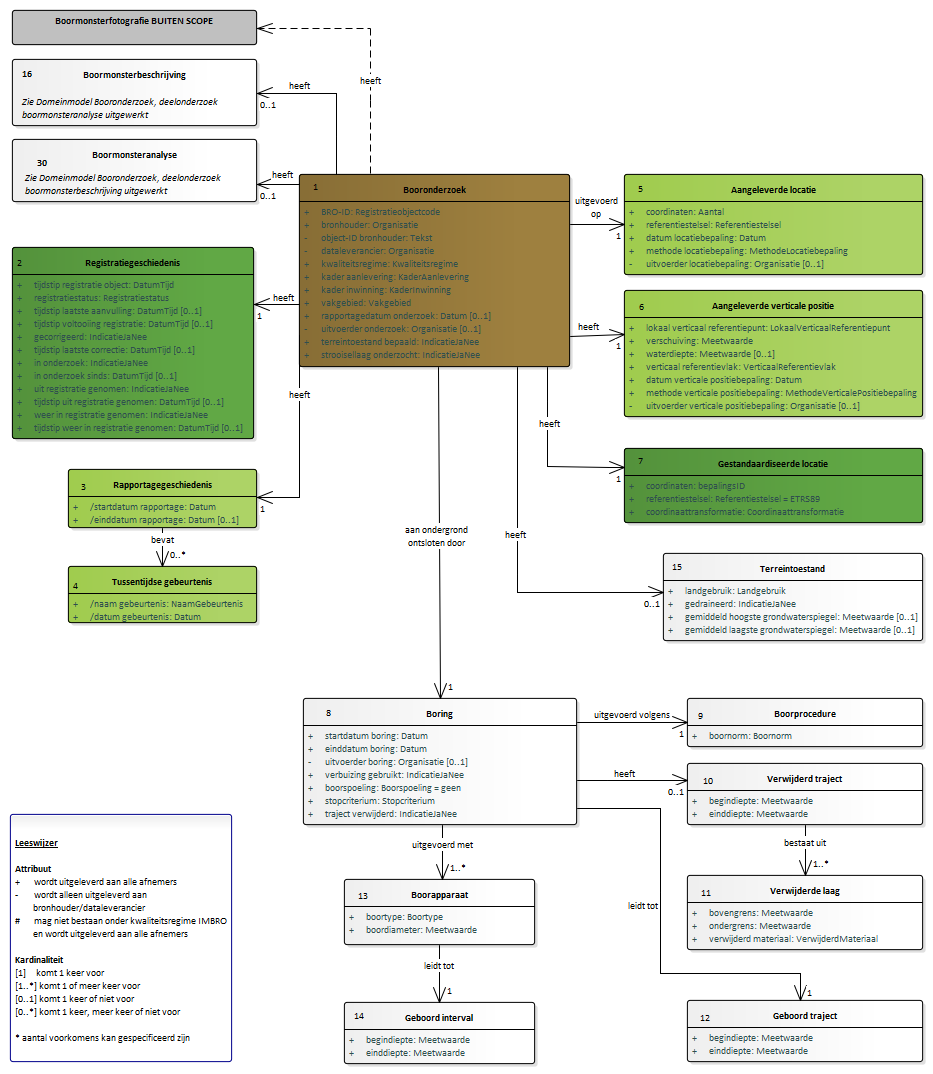
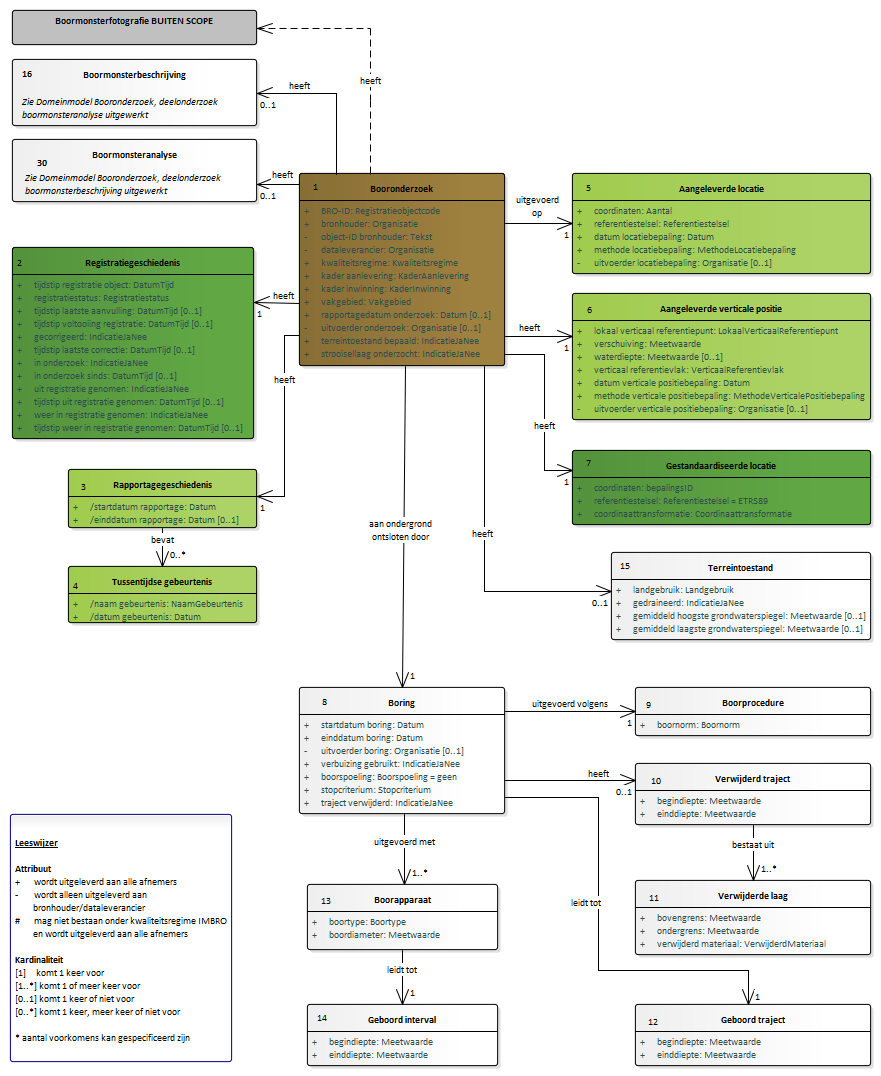
Conceptualmodel-BHR-Pconceptueel-MIM-1.9127november2019-1-20200214-20200304-152854

diff --git a/data/BHR-P-cat.msword.html b/data/BHR-P-cat.msword.html
@@ -13,7 +13,7 @@
    <body>
       <p>Conceptual model/BHR-P conceptueel - MIM/20200214</p>
       <p>Imvertor: 1.59.2</p>
-      <p>Model release: Conceptualmodel-BHR-Pconceptueel-MIM-1.9127november2019-1-20200214-20200304-150618</p>
+      <p>Model release: Conceptualmodel-BHR-Pconceptueel-MIM-1.9127november2019-1-20200214-20200304-152854</p>
       <hr>
       <section>
          <h1>Artikel 1 Definitie van registratieobject, entiteiten en attributen</h1>
@@ -70,20 +70,20 @@
             <h2>Het domeinmodel</h2>
             <section id="">
                <div class="imageinfo overview"><img src="Images/EAID_1C3500F1_E5BB_47e3_9CE1_BB98873D797A.png" usemap="#imagemap-EAID_1C3500F1_E5BB_47e3_9CE1_BB98873D797A" alt="Diagram "><map name="imagemap-EAID_1C3500F1_E5BB_47e3_9CE1_BB98873D797A">
-                     <area shape="rect" alt="Bodemclassificatie" coords="616,10,906,244" href="#graph_EAID_CFE14268_F08B_4a20_BB74_3FEA8BBA0438">
-                     <area shape="rect" alt="Zuurgraad bodemlaag" coords="550,559,712,621" href="#graph_EAID_20864613_7F9B_4610_9180_7A919D60C45B">
-                     <area shape="rect" alt="Verdeling fijne fractie" coords="770,729,907,809" href="#graph_EAID_60B04447_7B86_410e_B20F_D3CD115886D1">
-                     <area shape="rect" alt="Onvolledige fractiespecificatie" coords="557,825,760,915" href="#graph_EAID_2882FB1B_C7C2_467c_AEBB_238330EEBFC0">
-                     <area shape="rect" alt="Fractieverdeling" coords="557,725,738,813" href="#graph_EAID_EF53B14C_3668_4ef9_934A_1FD39F3E0662">
-                     <area shape="rect" alt="Grondsoort" coords="227,724,521,915" href="#graph_EAID_6335A71B_82D0_48a7_B08B_E14E5233FFFC">
-                     <area shape="rect" alt="Laagcomponent" coords="227,559,521,660" href="#graph_EAID_972B648E_F4A1_4a70_92B9_3383A5DB7706">
-                     <area shape="rect" alt="Vast gesteentelaag" coords="617,410,907,498" href="#graph_EAID_53169F7B_05E8_438f_A558_2A98EA6E3BDE">
-                     <area shape="rect" alt="Bodemlaag" coords="226,410,522,498" href="#graph_EAID_BAEFD725_0B6B_4084_AB08_BC42F75343BC">
-                     <area shape="rect" alt="Bijzonderheid onderin" coords="677,298,846,358" href="#graph_EAID_4B2108B5_2549_4222_B1C3_253785E10046">
-                     <area shape="rect" alt="Strooisellaag" coords="10,410,198,510" href="#graph_EAID_53792607_43A9_402c_BCFF_E9A10589D199">
-                     <area shape="rect" alt="Boorprofiel" coords="226,190,523,304" href="#graph_EAID_E066634E_A30B_4f31_9447_9ADBF0419CB4">
-                     <area shape="rect" alt="Boormonsterbeschrijving" coords="227,10,521,125" href="#graph_EAID_697C344A_A1CE_4e19_A1E8_D608CAB8F0B2">
-                     <area shape="rect" alt="Zuurgraad strooisellaag" coords="13,559,196,623" href="#graph_EAID_50D04CCB_A0D6_4ec1_85EB_B23EC6D99A02"></map><p><b>Domeinmodel BRO Bodemkundige boormonsterbeschrijving</b></p>
+                     <area shape="rect" alt="Bodemclassificatie" coords="560,10,850,244" href="#graph_EAID_CFE14268_F08B_4a20_BB74_3FEA8BBA0438">
+                     <area shape="rect" alt="Zuurgraad bodemlaag" coords="520,558,682,620" href="#graph_EAID_20864613_7F9B_4610_9180_7A919D60C45B">
+                     <area shape="rect" alt="Verdeling fijne fractie" coords="613,980,750,1060" href="#graph_EAID_60B04447_7B86_410e_B20F_D3CD115886D1">
+                     <area shape="rect" alt="Onvolledige fractiespecificatie" coords="547,724,750,814" href="#graph_EAID_2882FB1B_C7C2_467c_AEBB_238330EEBFC0">
+                     <area shape="rect" alt="Fractieverdeling" coords="569,848,750,936" href="#graph_EAID_EF53B14C_3668_4ef9_934A_1FD39F3E0662">
+                     <area shape="rect" alt="Grondsoort" coords="204,724,498,915" href="#graph_EAID_6335A71B_82D0_48a7_B08B_E14E5233FFFC">
+                     <area shape="rect" alt="Laagcomponent" coords="204,559,498,660" href="#graph_EAID_972B648E_F4A1_4a70_92B9_3383A5DB7706">
+                     <area shape="rect" alt="Vast gesteentelaag" coords="560,410,850,498" href="#graph_EAID_53169F7B_05E8_438f_A558_2A98EA6E3BDE">
+                     <area shape="rect" alt="Bodemlaag" coords="203,410,499,498" href="#graph_EAID_BAEFD725_0B6B_4084_AB08_BC42F75343BC">
+                     <area shape="rect" alt="Bijzonderheid onderin" coords="629,298,798,358" href="#graph_EAID_4B2108B5_2549_4222_B1C3_253785E10046">
+                     <area shape="rect" alt="Strooisellaag" coords="10,410,186,510" href="#graph_EAID_53792607_43A9_402c_BCFF_E9A10589D199">
+                     <area shape="rect" alt="Boorprofiel" coords="203,190,500,304" href="#graph_EAID_E066634E_A30B_4f31_9447_9ADBF0419CB4">
+                     <area shape="rect" alt="Boormonsterbeschrijving" coords="204,10,498,125" href="#graph_EAID_697C344A_A1CE_4e19_A1E8_D608CAB8F0B2">
+                     <area shape="rect" alt="Zuurgraad strooisellaag" coords="13,558,186,623" href="#graph_EAID_50D04CCB_A0D6_4ec1_85EB_B23EC6D99A02"></map><p><b>Domeinmodel BRO Bodemkundige boormonsterbeschrijving</b></p>
                </div>
                <div class="imageinfo overview"><img src="Images/EAID_6383BFB7_B0C0_44d9_9C7F_929703659479.png" usemap="#imagemap-EAID_6383BFB7_B0C0_44d9_9C7F_929703659479" alt="Diagram "><map name="imagemap-EAID_6383BFB7_B0C0_44d9_9C7F_929703659479">
                      <area shape="rect" alt="Bepaling waterretentie stapsgewijs" coords="12,733,253,964" href="#graph_EAID_41CDAA8E_37BA_4dbe_843B_C18C720DC286">
@@ -96,23 +96,23 @@
                      <area shape="rect" alt="Onderzocht interval" coords="255,180,481,308" href="#graph_EAID_E03DABD7_D5A7_43b1_8E45_22FE722A3256"></map><p><b>Bodemkundige boormonsteranalyse deel 1</b></p>
                </div>
                <div class="imageinfo overview"><img src="Images/EAID_D6588CC3_0108_4b72_8419_F2C7022F9A9E.png" usemap="#imagemap-EAID_D6588CC3_0108_4b72_8419_F2C7022F9A9E" alt="Diagram "><map name="imagemap-EAID_D6588CC3_0108_4b72_8419_F2C7022F9A9E">
-                     <area shape="rect" alt="Gestandaardiseerde locatie" coords="624,448,923,523" href="#graph_EAID_4D17BE34_0DFD_4a20_9A39_F437E781D80F">
-                     <area shape="rect" alt="Aangeleverde verticale positie" coords="624,290,923,417" href="#graph_EAID_5B6EEAEE_FAAF_4ab9_9D33_709559A9E297">
-                     <area shape="rect" alt="Aangeleverde locatie" coords="624,174,923,275" href="#graph_EAID_C81072B6_E99D_435f_9E4C_B1D5FED530D4">
-                     <area shape="rect" alt="Geboord traject" coords="687,1000,923,1062" href="#graph_EAID_BCE4FB50_EC8B_4ebc_BA2F_AED708915459">
-                     <area shape="rect" alt="Verwijderde laag" coords="687,875,923,950" href="#graph_EAID_4F931859_A209_48c8_95B4_EF48947342D4">
-                     <area shape="rect" alt="Verwijderd traject" coords="687,763,923,825" href="#graph_EAID_9CAAE4E0_1030_4145_8BA6_E7E82C1A81D3">
-                     <area shape="rect" alt="Boorprocedure" coords="687,698,923,747" href="#graph_EAID_BC5BEC9E_1CD9_400e_931D_D3328E315CAA">
-                     <area shape="rect" alt="Terreintoestand" coords="663,553,923,641" href="#graph_EAID_AF1FFED2_C283_48d3_BB6D_22F3F876045D">
-                     <area shape="rect" alt="Geboord interval" coords="344,1002,535,1064" href="#graph_EAID_7A51F6B2_4675_47d0_849C_BCE1853C65CF">
-                     <area shape="rect" alt="Boorapparaat" coords="344,879,535,945" href="#graph_EAID_F4D931C9_4668_4a29_94E7_347B9C7D4AFC">
-                     <area shape="rect" alt="Boring" coords="303,698,577,825" href="#graph_EAID_EEB4A074_34DE_4020_8995_D8081DCBBB6C">
+                     <area shape="rect" alt="Gestandaardiseerde locatie" coords="572,450,871,525" href="#graph_EAID_4D17BE34_0DFD_4a20_9A39_F437E781D80F">
+                     <area shape="rect" alt="Aangeleverde verticale positie" coords="572,293,871,420" href="#graph_EAID_5B6EEAEE_FAAF_4ab9_9D33_709559A9E297">
+                     <area shape="rect" alt="Aangeleverde locatie" coords="572,173,871,274" href="#graph_EAID_C81072B6_E99D_435f_9E4C_B1D5FED530D4">
+                     <area shape="rect" alt="Geboord traject" coords="635,1004,871,1066" href="#graph_EAID_BCE4FB50_EC8B_4ebc_BA2F_AED708915459">
+                     <area shape="rect" alt="Verwijderde laag" coords="635,880,871,955" href="#graph_EAID_4F931859_A209_48c8_95B4_EF48947342D4">
+                     <area shape="rect" alt="Verwijderd traject" coords="635,763,871,825" href="#graph_EAID_9CAAE4E0_1030_4145_8BA6_E7E82C1A81D3">
+                     <area shape="rect" alt="Boorprocedure" coords="635,687,871,736" href="#graph_EAID_BC5BEC9E_1CD9_400e_931D_D3328E315CAA">
+                     <area shape="rect" alt="Terreintoestand" coords="611,552,871,640" href="#graph_EAID_AF1FFED2_C283_48d3_BB6D_22F3F876045D">
+                     <area shape="rect" alt="Geboord interval" coords="307,1004,498,1066" href="#graph_EAID_7A51F6B2_4675_47d0_849C_BCE1853C65CF">
+                     <area shape="rect" alt="Boorapparaat" coords="307,884,498,950" href="#graph_EAID_F4D931C9_4668_4a29_94E7_347B9C7D4AFC">
+                     <area shape="rect" alt="Boring" coords="299,687,505,814" href="#graph_EAID_EEB4A074_34DE_4020_8995_D8081DCBBB6C">
                      <area shape="rect" alt="Tussentijdse gebeurtenis" coords="68,566,257,623" href="#graph_EAID_648ED0D8_FACD_42e6_9C8A_648C6F5E0DA8">
                      <area shape="rect" alt="Rapportagegeschiedenis" coords="68,469,257,528" href="#graph_EAID_6C31CE0B_20BC_4ca1_9BFA_C6D0EF8B7476">
                      <area shape="rect" alt="Boormonsterbeschrijving" coords="12,59,257,126" href="#graph_EAID_697C344A_A1CE_4e19_A1E8_D608CAB8F0B2">
                      <area shape="rect" alt="Registratiegeschiedenis" coords="12,247,254,439" href="#graph_EAID_8505883D_9F95_4151_9381_E70B2B7F19DE">
                      <area shape="rect" alt="Boormonsteranalyse" coords="12,139,257,202" href="#graph_EAID_C497D0C8_A7FC_4280_82C3_3C866CAA23AB">
-                     <area shape="rect" alt="Booronderzoek" coords="299,174,570,367" href="#graph_EAID_767F438F_1014_47bc_BBDC_98606932693D"></map><p><b>Domeinmodel BRO Booronderzoek</b></p>
+                     <area shape="rect" alt="Booronderzoek" coords="299,173,505,366" href="#graph_EAID_767F438F_1014_47bc_BBDC_98606932693D"></map><p><b>Domeinmodel BRO Booronderzoek</b></p>
                </div>
             </section>
          </section>
